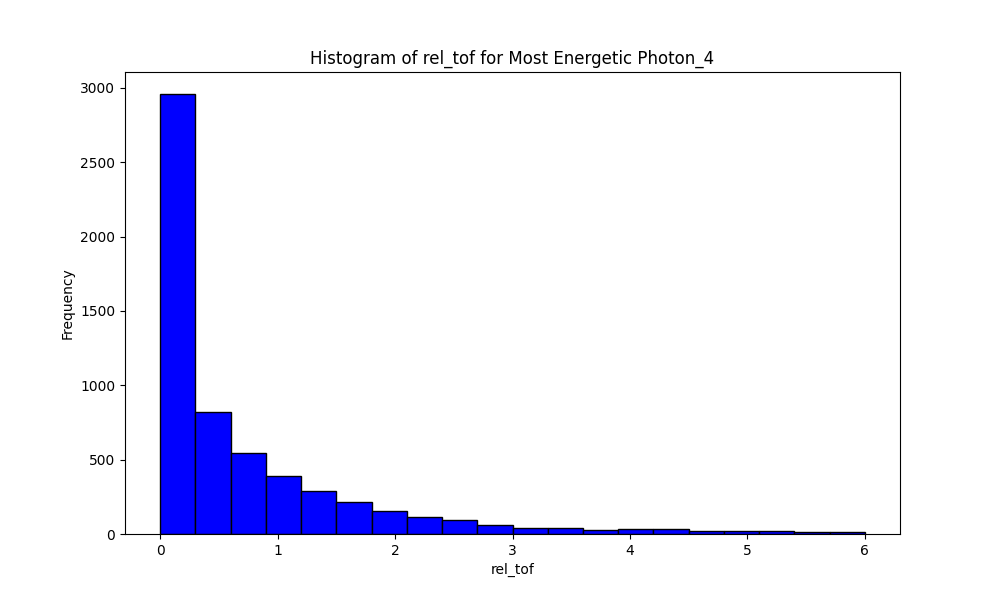
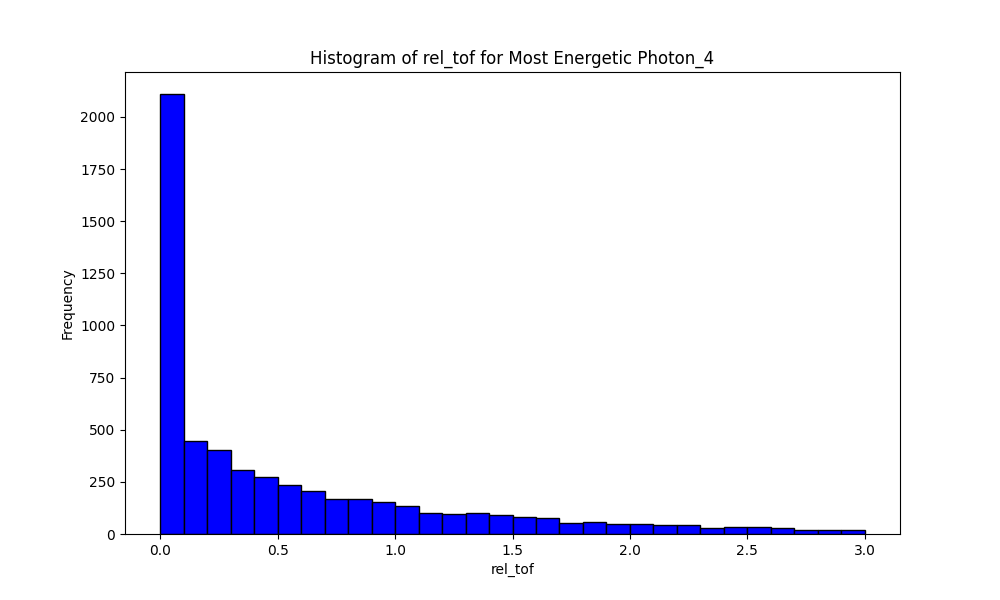
Mejoramos la calidad del binado en los graficos basicos, todo lo demas se mantiene igual.

diff --git a/scripts_2208/06_basics_observables_merge_analisis.py b/scripts_2208/06_basics_observables_merge_analisis.py
@@ -27,9 +27,9 @@ def plot_histogram(df, column_name, title, xlabel, ylabel, destiny, output_file)
     """
     # Define bins based on the column name
     if column_name == 'z_origin':
-        bins = np.arange(0, 1100, 100)  # Bins from 0 to 1000 with steps of 100
+        bins = np.arange(0, 310, 10)  # Bins from 0 to 1000 with steps of 100
     elif column_name == 'rel_tof':
-        bins = np.arange(0, 6.3, 0.3)  # Bins from 0 to 6 with steps of 0.3
+        bins = np.arange(0, 3.1, 0.1)  # Bins from 0 to 6 with steps of 0.3
     else:
         bins = 30  # Default number of bins
     
@@ -86,7 +86,10 @@ def plot_most_energetic_histogram(df, particle_type, destiny):
     most_energetic_particles = df.xs(0, level='id')  # Extract rows where id = 0
 
     # Define bins from 0 to 300 with intervals of 10
-    bins = np.arange(0, 310, 10)
+    if 'photon' in particle_type.lower():
+        bins = np.arange(0, 210, 10)
+    else:
+        bins = np.arange(0, 310, 10)
 
     # Create the histogram of 'pt' (transverse momentum)
     plt.figure(figsize=(10, 6))
